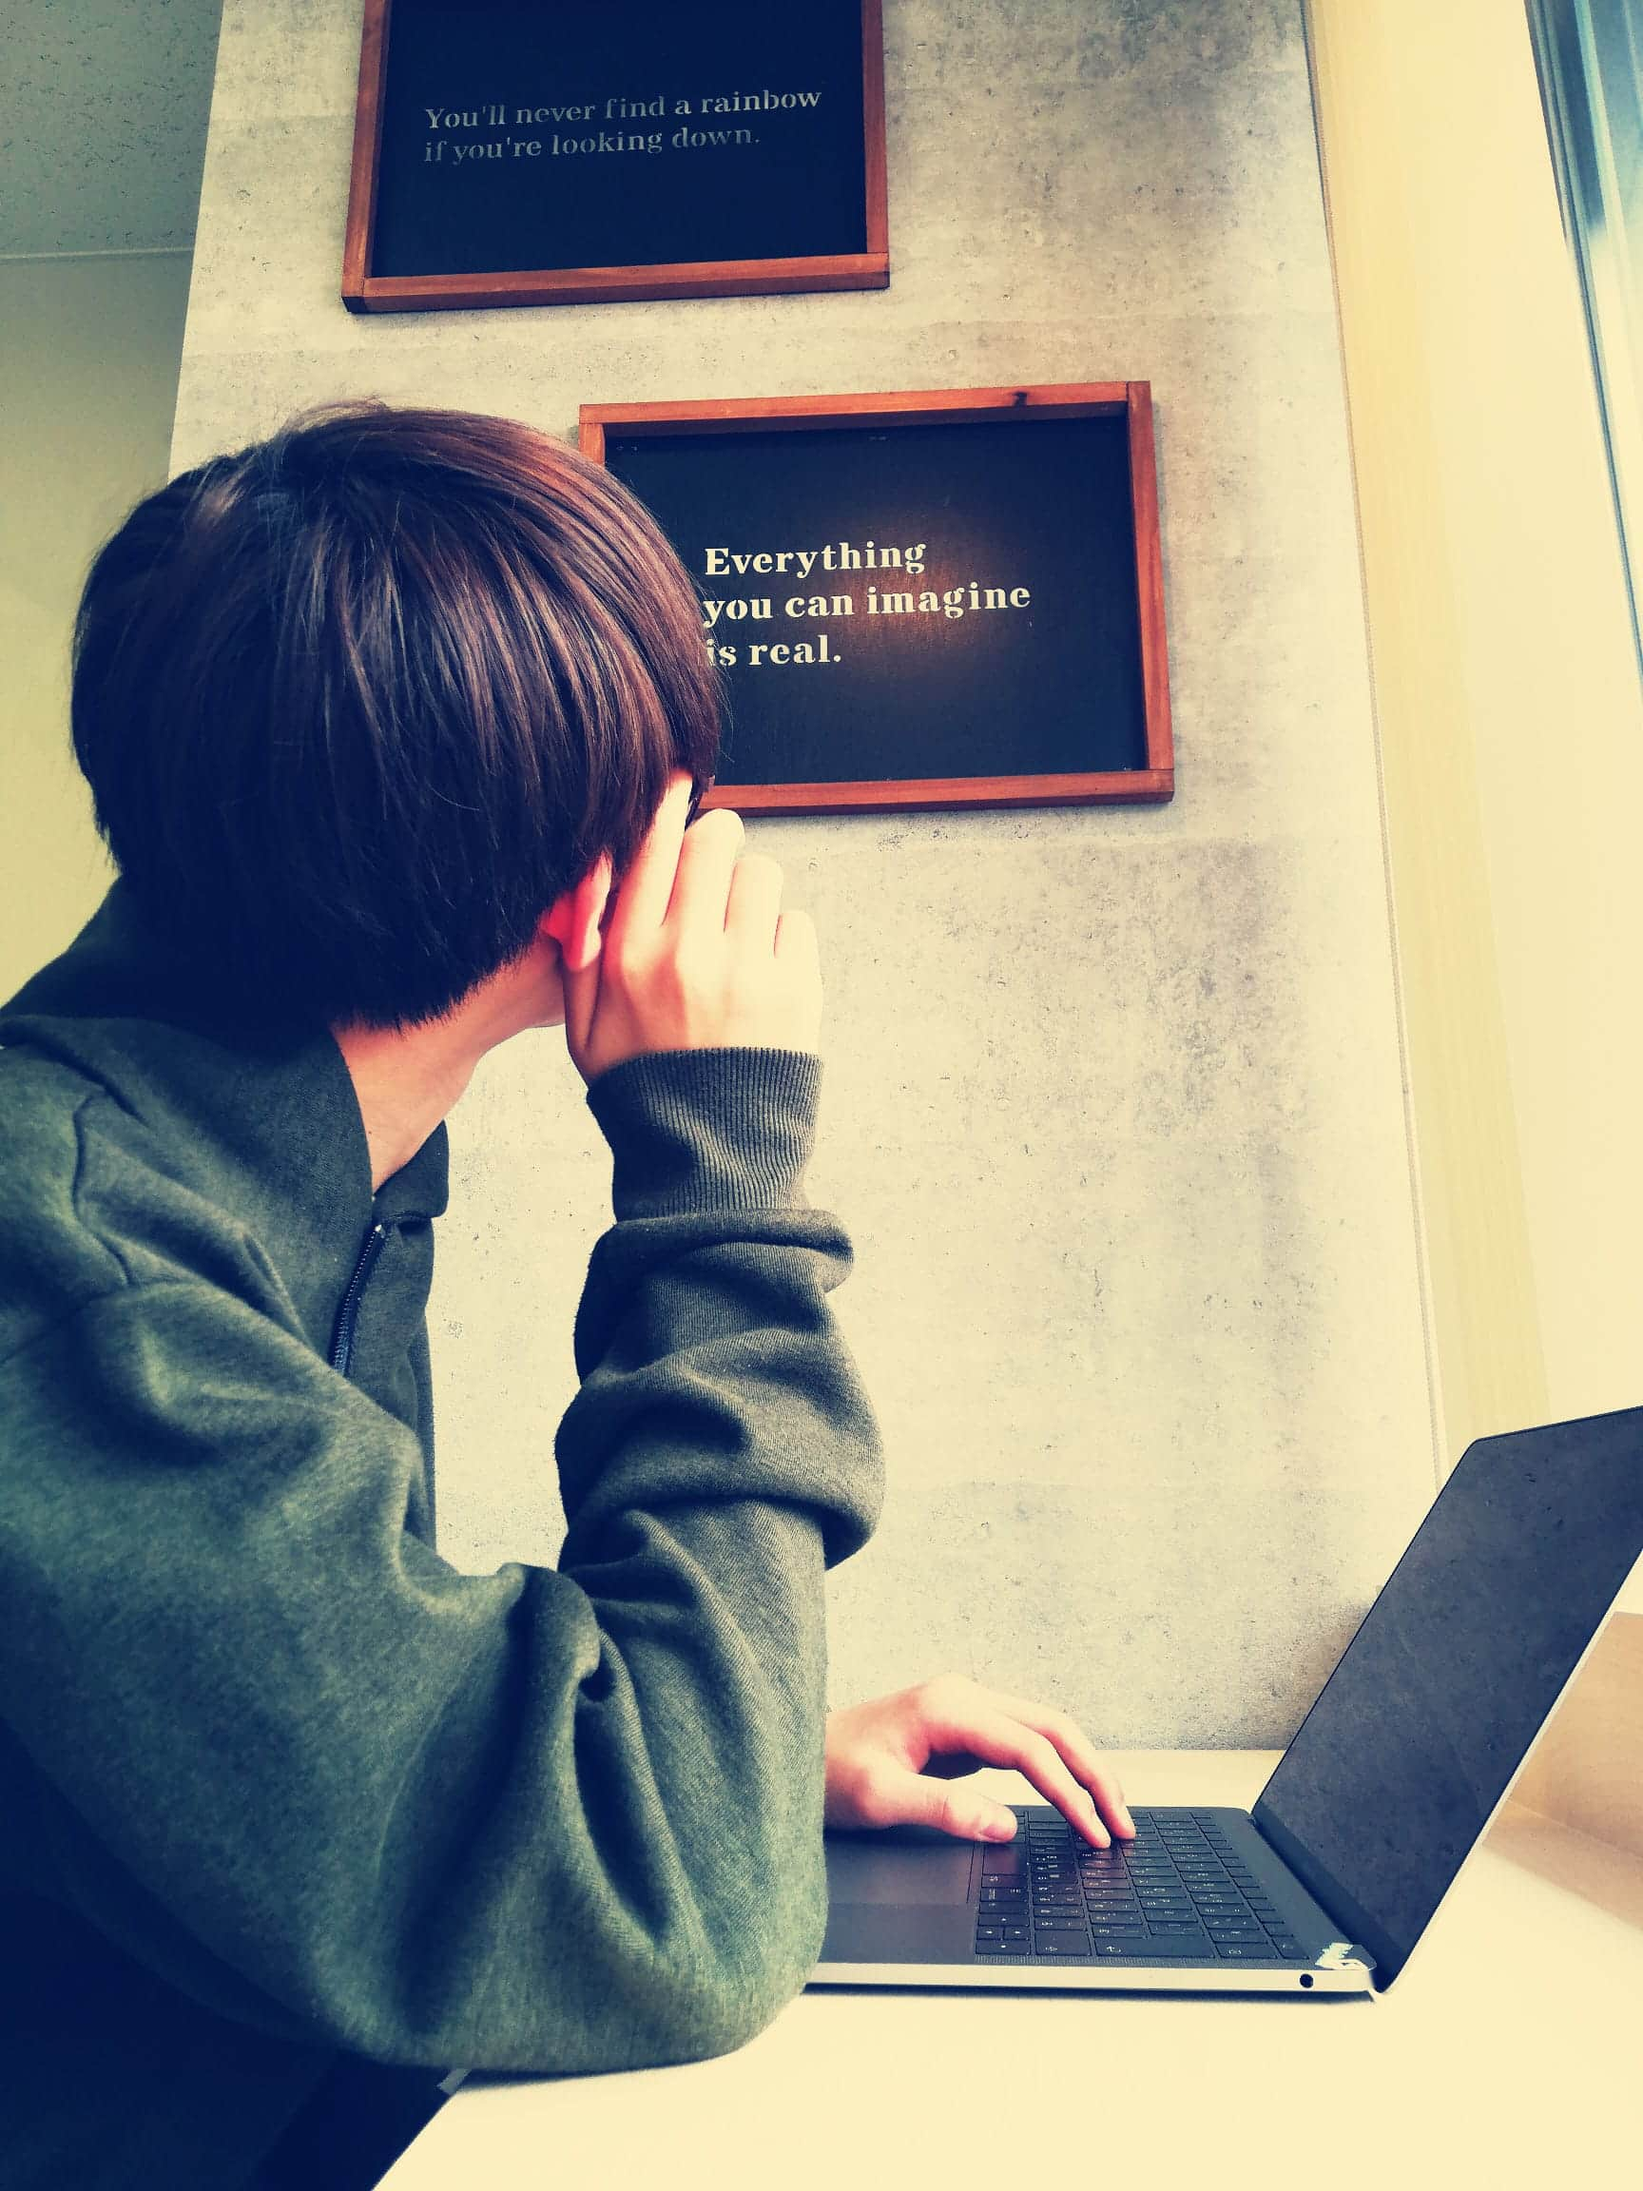
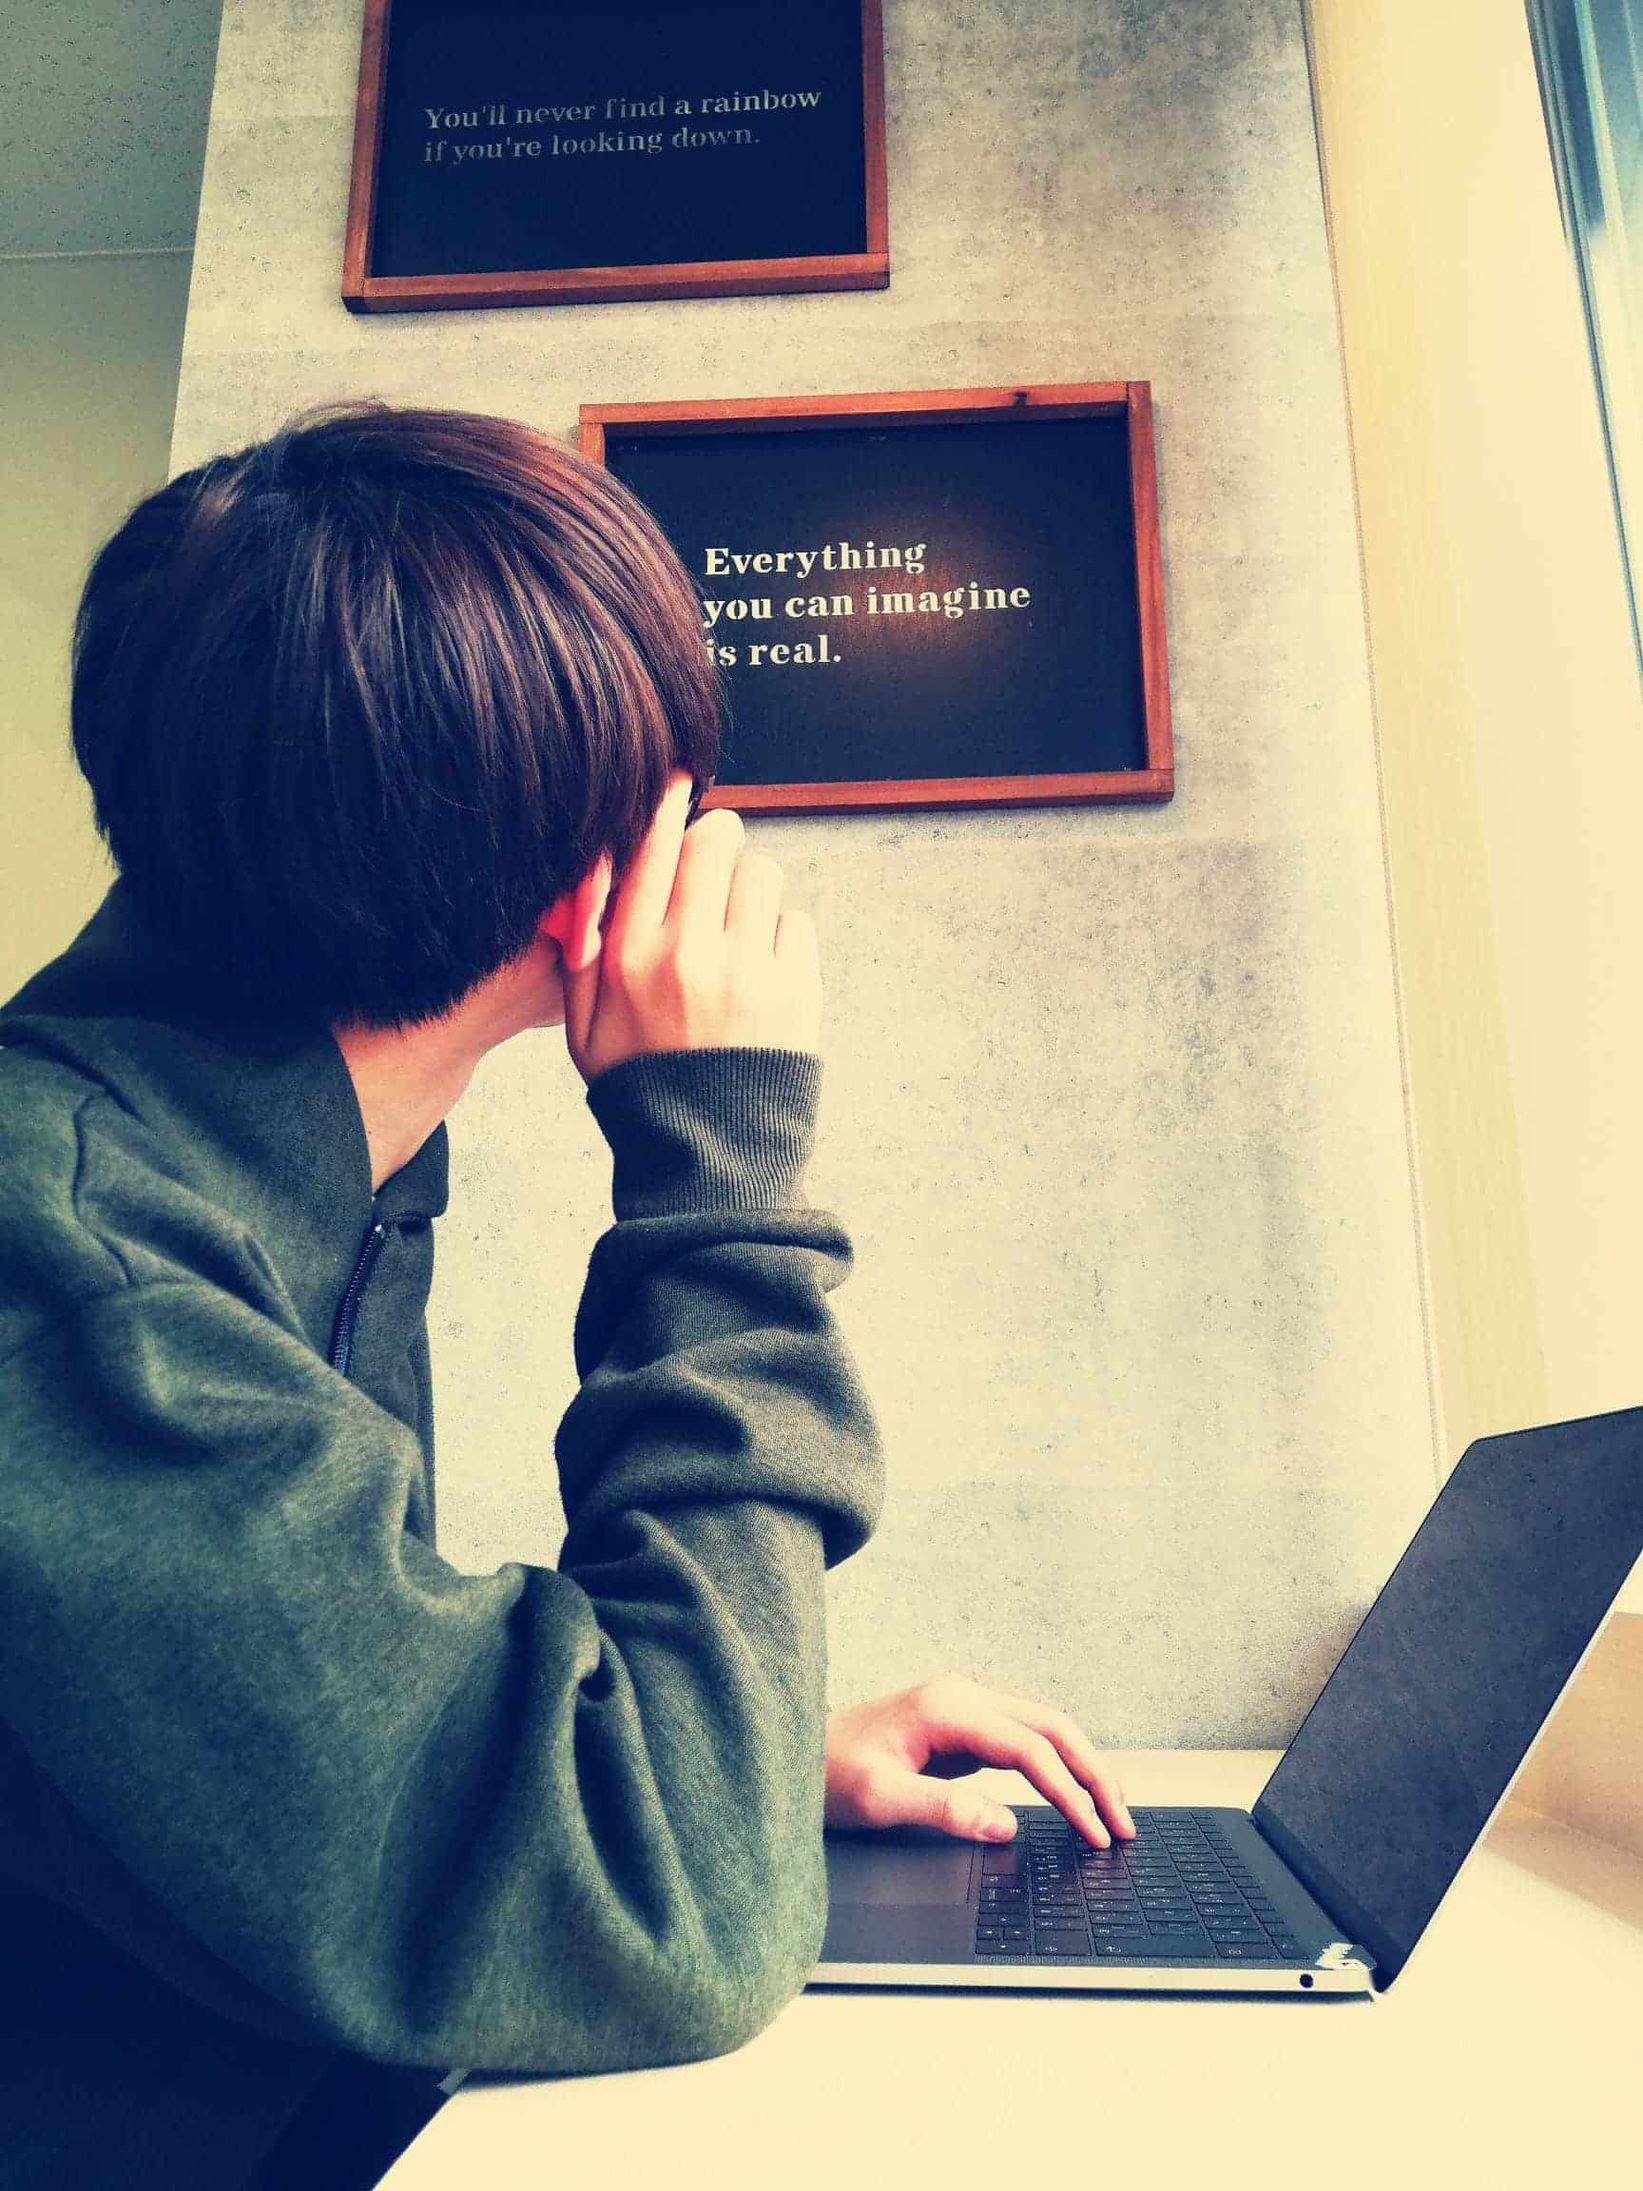
topの画像戻した

Changed region(s): [[0.4375, 0.5312, 0.4688, 0.5625], [0.4375, 0.25, 0.4688, 0.2812], [0.3438, 0.2812, 0.375, 0.3125]]

diff --git a/index.html b/index.html
@@ -49,7 +49,7 @@
     <div id="wrapper">
       <!-- トップ画像  -->
       <div class="top">
-        <img src="./image/top-min.jpg" alt="top">
+        <img src="./image/top.jpg" alt="top">
         <div class="rectangle">
           <span>HINATA FUJIHARA</span>
           <span>’s portfolio</span>
